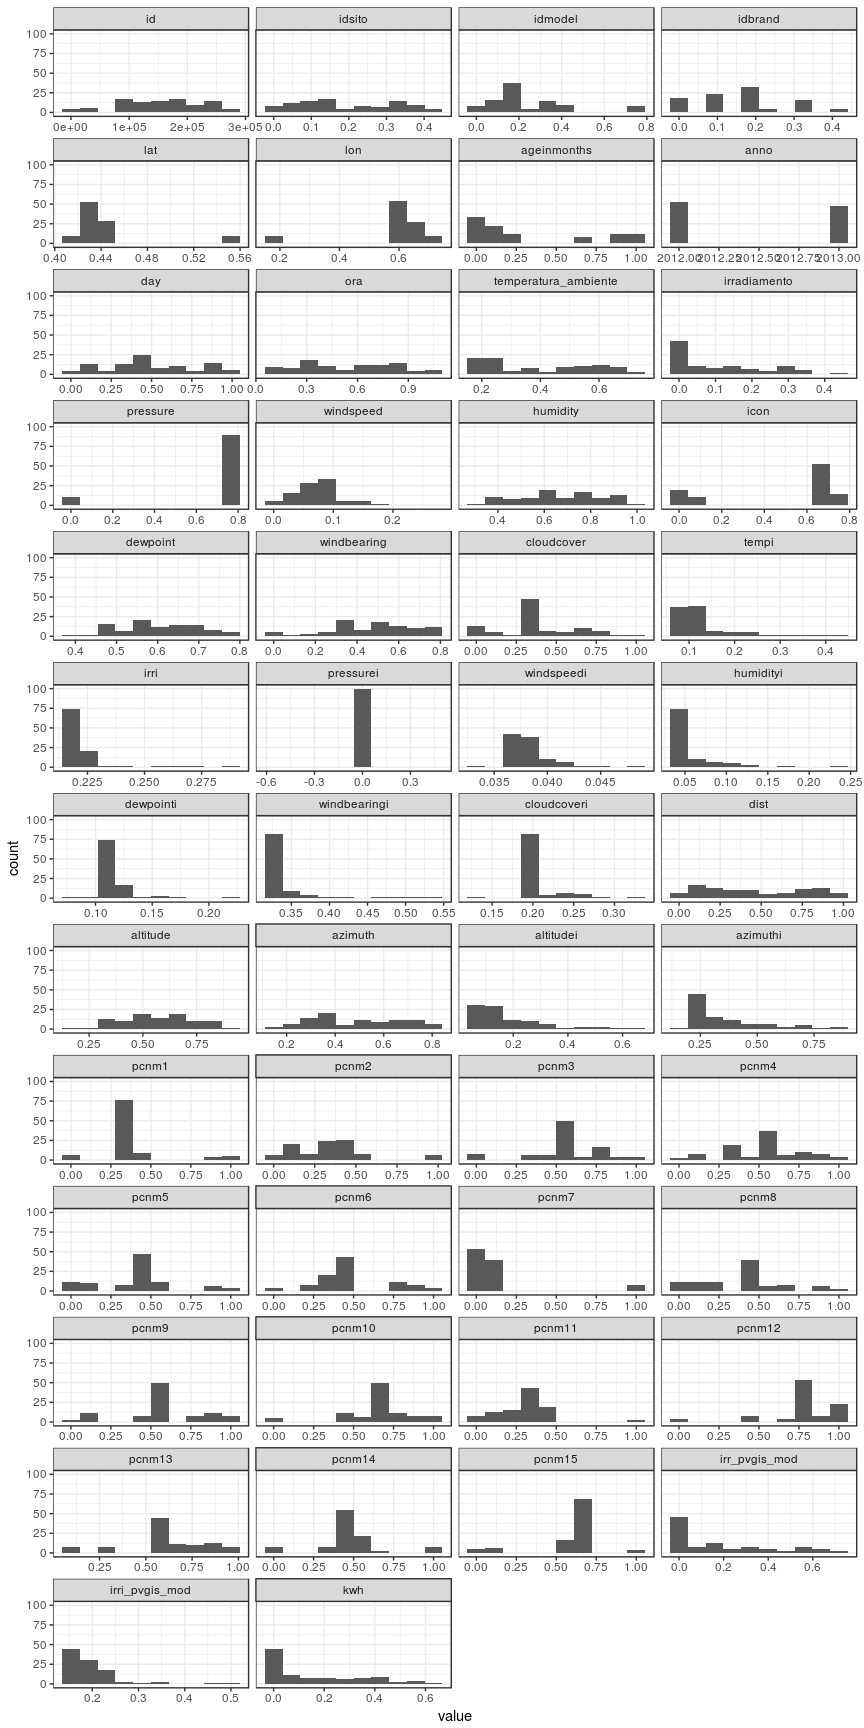
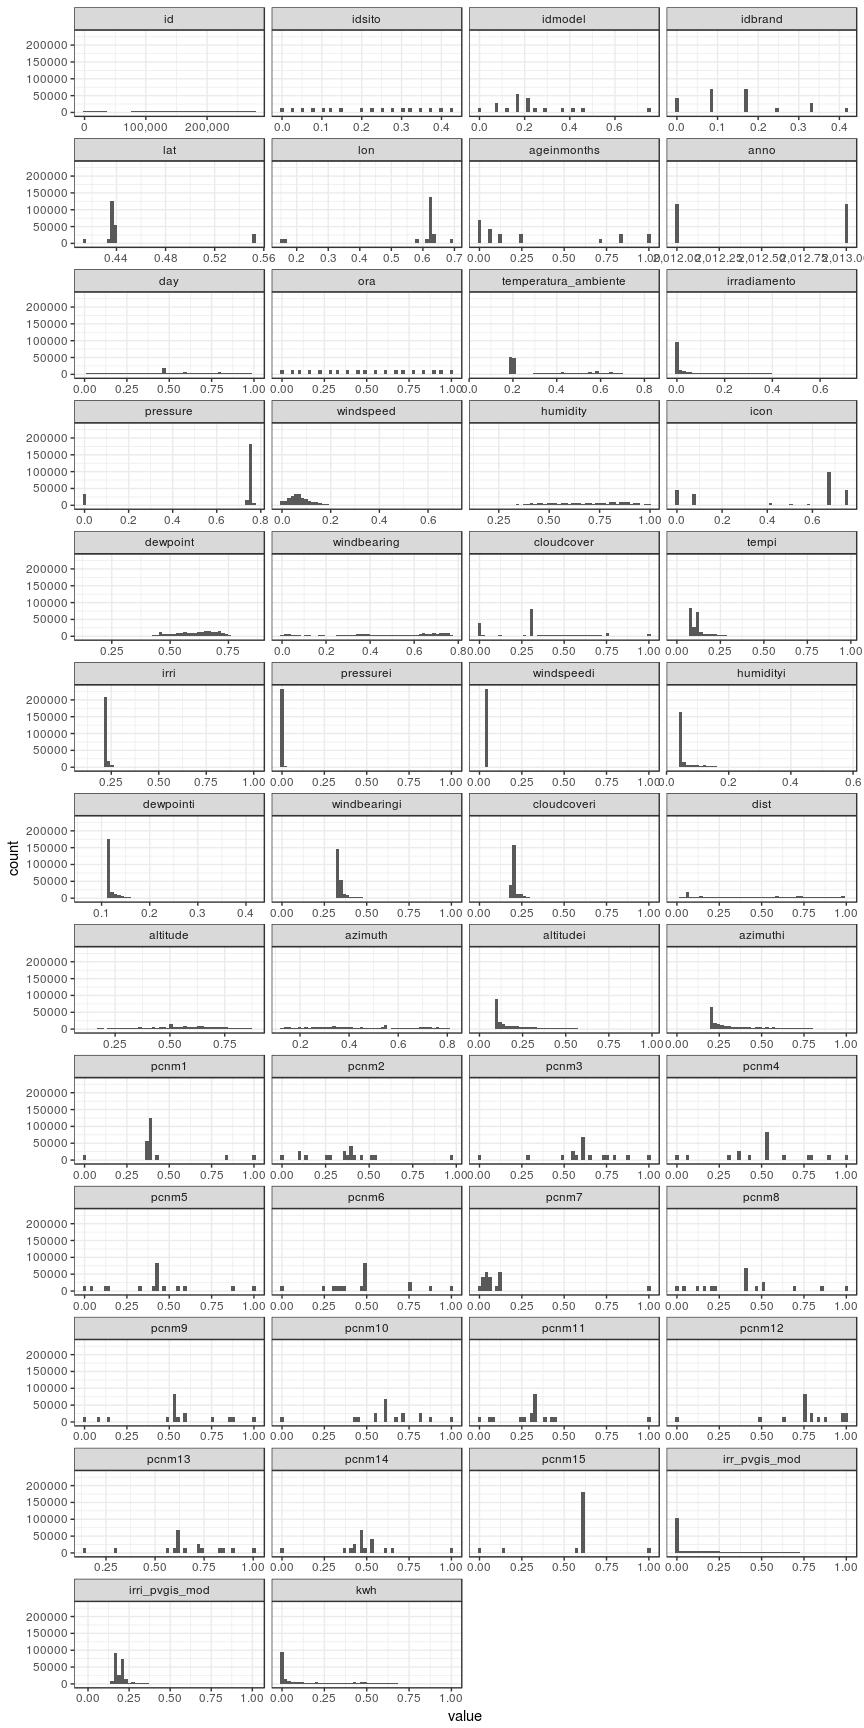
Update histogram to base on whole data, change number of bins

diff --git a/README.md b/README.md
@@ -497,8 +497,8 @@ kwh - wytworzone Kilowatogodziny (wartości znormalizowane)
 ##### Rozkład wartości poszczególnych atrybutów
 
 ``` r
-ggplot(data = melt(sample_n(data, 100)), mapping = aes(x = value)) + 
-  geom_histogram(bins = 10) + facet_wrap(~variable, ncol=4, scales = 'free_x') + theme_bw()
+ggplot(data = melt(data), mapping = aes(x = value)) + 
+  geom_histogram(bins=50) + facet_wrap(~variable, ncol=4, scales = 'free_x') + scale_x_continuous(labels = scales::comma) + theme_bw()
 ```
 
     ## Using data as id variables
